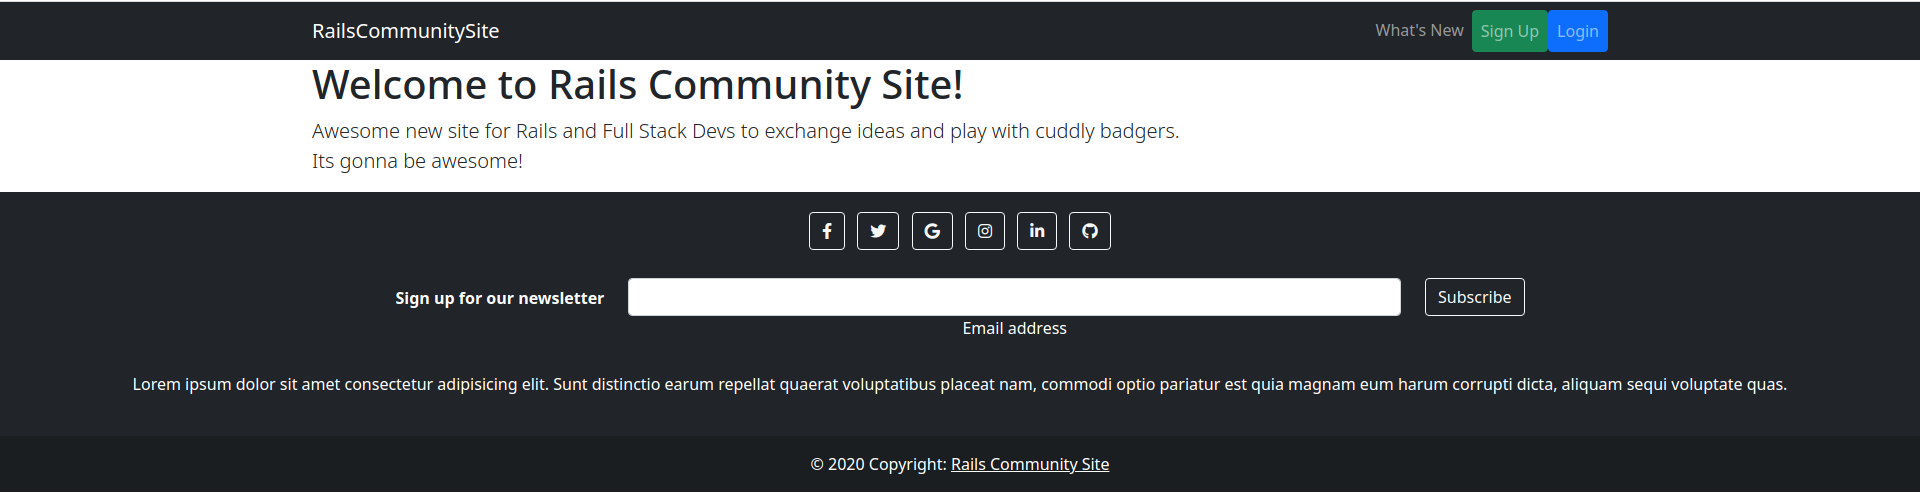
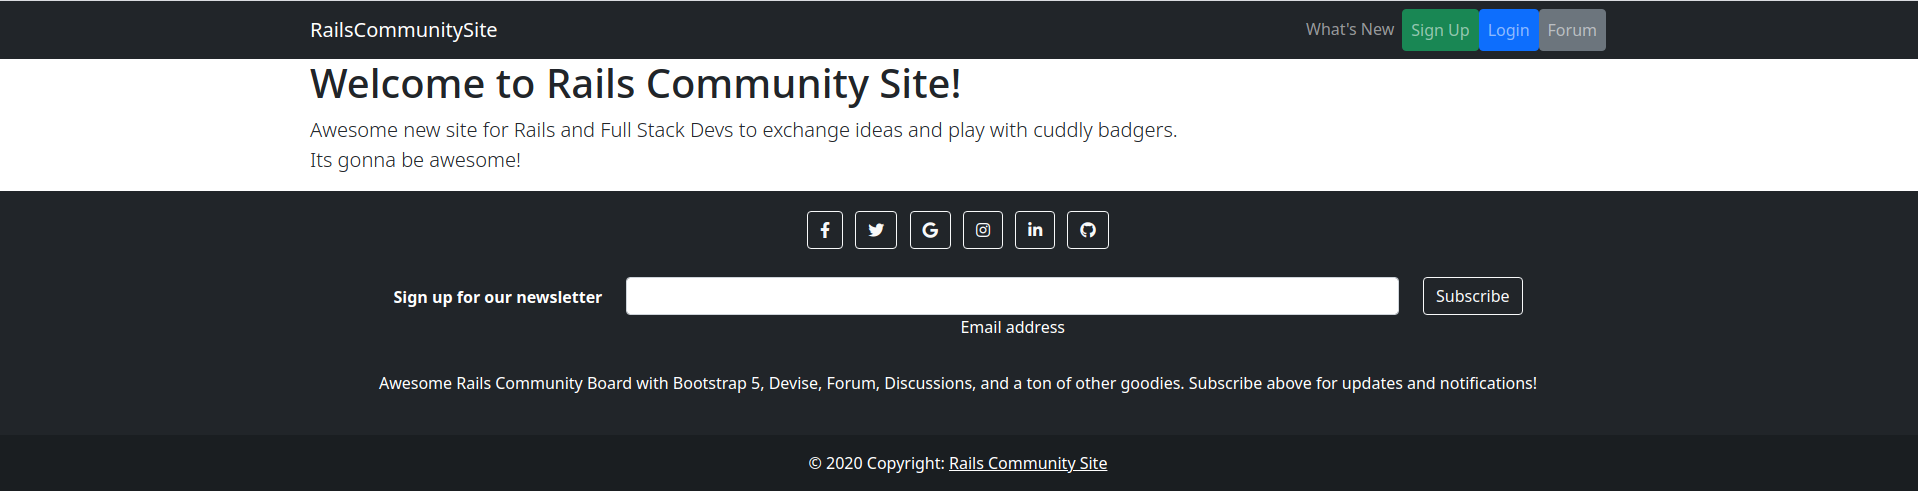
Simple Discussion

diff --git a/app/assets/stylesheets/application.scss b/app/assets/stylesheets/application.scss
@@ -7,7 +7,7 @@
 @import "bootstrap";
 
 @import "jumpstart/announcements";
-
+@import "simple_discussion";
 // Fixes bootstrap nav-brand container overlap
 @include media-breakpoint-down(xs) {
   .container {

diff --git a/db/schema.rb b/db/schema.rb
@@ -10,7 +10,7 @@
 #
 # It's strongly recommended that you check this file into your version control system.
 
-ActiveRecord::Schema.define(version: 2021_06_23_215306) do
+ActiveRecord::Schema.define(version: 2021_06_24_123722) do
 
   # These are extensions that must be enabled in order to support this database
   enable_extension "plpgsql"
@@ -43,6 +43,43 @@ ActiveRecord::Schema.define(version: 2021_06_23_215306) do
     t.text "description"
     t.datetime "created_at", precision: 6, null: false
     t.datetime "updated_at", precision: 6, null: false
+  end
+
+  create_table "forum_categories", id: :serial, force: :cascade do |t|
+    t.string "name", null: false
+    t.string "slug", null: false
+    t.string "color", default: "000000"
+    t.datetime "created_at"
+    t.datetime "updated_at"
+  end
+
+  create_table "forum_posts", id: :serial, force: :cascade do |t|
+    t.integer "forum_thread_id"
+    t.integer "user_id"
+    t.text "body"
+    t.boolean "solved", default: false
+    t.datetime "created_at"
+    t.datetime "updated_at"
+  end
+
+  create_table "forum_subscriptions", id: :serial, force: :cascade do |t|
+    t.integer "forum_thread_id"
+    t.integer "user_id"
+    t.string "subscription_type"
+    t.datetime "created_at"
+    t.datetime "updated_at"
+  end
+
+  create_table "forum_threads", id: :serial, force: :cascade do |t|
+    t.integer "forum_category_id"
+    t.integer "user_id"
+    t.string "title", null: false
+    t.string "slug", null: false
+    t.integer "forum_posts_count", default: 0
+    t.boolean "pinned", default: false
+    t.boolean "solved", default: false
+    t.datetime "created_at"
+    t.datetime "updated_at"
   end
 
   create_table "friendly_id_slugs", force: :cascade do |t|
@@ -99,5 +136,11 @@ ActiveRecord::Schema.define(version: 2021_06_23_215306) do
   end
 
   add_foreign_key "active_storage_attachments", "active_storage_blobs", column: "blob_id"
+  add_foreign_key "forum_posts", "forum_threads"
+  add_foreign_key "forum_posts", "users"
+  add_foreign_key "forum_subscriptions", "forum_threads"
+  add_foreign_key "forum_subscriptions", "users"
+  add_foreign_key "forum_threads", "forum_categories"
+  add_foreign_key "forum_threads", "users"
   add_foreign_key "services", "users"
 end

diff --git a/db/migrate/20210624123719_create_forum_categories.simple_discussion.rb b/db/migrate/20210624123719_create_forum_categories.simple_discussion.rb
@@ -1,0 +1,24 @@
+# This migration comes from simple_discussion (originally 20170417012930)
+class CreateForumCategories < ActiveRecord::Migration[4.2]
+  def change
+    create_table :forum_categories do |t|
+      t.string :name, null: false
+      t.string :slug, null: false
+      t.string :color, default: "000000"
+
+      t.timestamps
+    end
+
+    ForumCategory.reset_column_information
+
+    ForumCategory.create(
+      name: "General",
+      color: "#4ea1d3"
+    )
+
+    ForumCategory.create(
+      name: "Feedback",
+      color: "#16bc9c"
+    )
+  end
+end

diff --git a/db/migrate/20210624123720_create_forum_threads.simple_discussion.rb b/db/migrate/20210624123720_create_forum_threads.simple_discussion.rb
@@ -1,0 +1,16 @@
+# This migration comes from simple_discussion (originally 20170417012931)
+class CreateForumThreads < ActiveRecord::Migration[4.2]
+  def change
+    create_table :forum_threads do |t|
+      t.references :forum_category, foreign_key: true
+      t.references :user, foreign_key: true
+      t.string :title, null: false
+      t.string :slug, null: false
+      t.integer :forum_posts_count, default: 0
+      t.boolean :pinned, default: false
+      t.boolean :solved, default: false
+
+      t.timestamps
+    end
+  end
+end

diff --git a/app/helpers/application_helper.rb b/app/helpers/application_helper.rb
@@ -1,2 +1,15 @@
 module ApplicationHelper
+    def render_svg(name, styles: "text-reset", title: nil)
+        filename = "#{name.svg}"
+        title = name.underscore.humanize
+        inline_svg_tag(filename, aria: true, nocomment: true, title: title, class: styles)
+    end
+
+    def admin
+       user_signed_in? && current_user.admin?
+    end
+
+    def author_of(resource)
+       user_signed_in? && current_user.id = resource.user.id
+    end
 end

diff --git a/db/migrate/20210624123721_create_forum_posts.simple_discussion.rb b/db/migrate/20210624123721_create_forum_posts.simple_discussion.rb
@@ -1,0 +1,13 @@
+# This migration comes from simple_discussion (originally 20170417012932)
+class CreateForumPosts < ActiveRecord::Migration[4.2]
+  def change
+    create_table :forum_posts do |t|
+      t.references :forum_thread, foreign_key: true
+      t.references :user, foreign_key: true
+      t.text :body
+      t.boolean :solved, default: false
+
+      t.timestamps
+    end
+  end
+end

diff --git a/db/migrate/20210624123722_create_forum_subscriptions.simple_discussion.rb b/db/migrate/20210624123722_create_forum_subscriptions.simple_discussion.rb
@@ -1,0 +1,12 @@
+# This migration comes from simple_discussion (originally 20170417012933)
+class CreateForumSubscriptions < ActiveRecord::Migration[4.2]
+  def change
+    create_table :forum_subscriptions do |t|
+      t.references :forum_thread, foreign_key: true
+      t.references :user, foreign_key: true
+      t.string :subscription_type
+
+      t.timestamps
+    end
+  end
+end

diff --git a/app/models/user.rb b/app/models/user.rb
@@ -1,4 +1,9 @@
 class User < ApplicationRecord
+  include SimpleDiscussion::ForumUser
+
+  def name
+    "#{first_name} #{last_name}"
+  end
   # Include default devise modules. Others available are:
   # :confirmable, :lockable, :timeoutable and :omniauthable
   devise :masqueradable, :database_authenticatable, :registerable, :recoverable, :rememberable, :validatable, :omniauthable

diff --git a/config/routes.rb b/config/routes.rb
@@ -5,6 +5,7 @@ Rails.application.routes.draw do
   get '/terms', to: 'home#terms'
 authenticate :user, lambda { |u| u.admin? } do
   mount Sidekiq::Web => '/sidekiq'
+  mount SimpleDiscussion::Engine => "/forum"
 
   namespace :madmin do
   end
